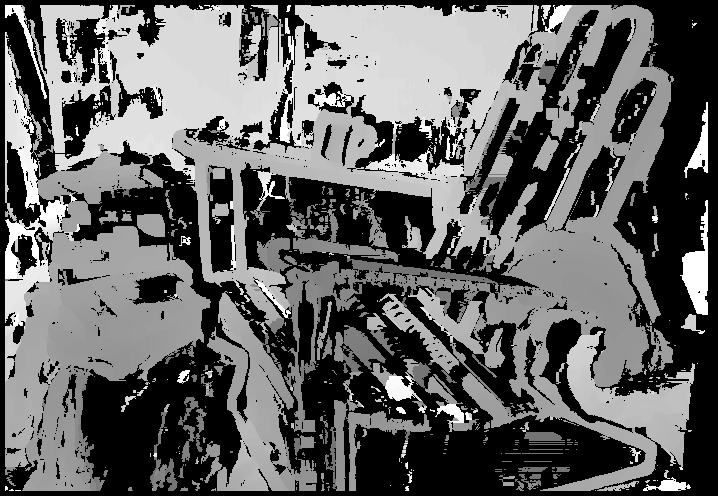
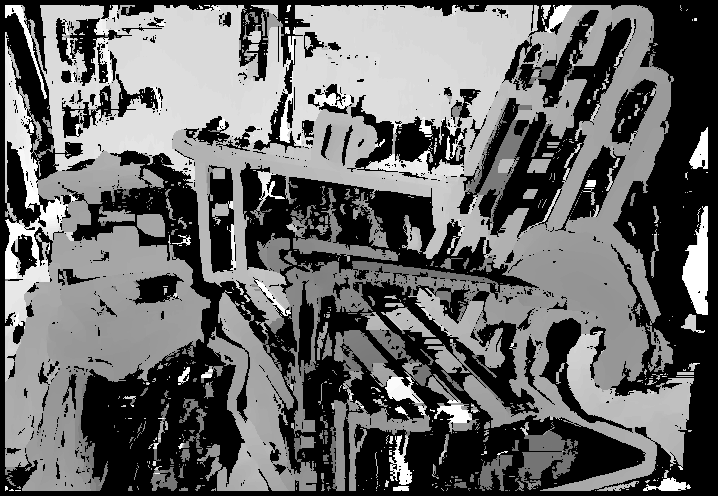
fixed symmetric constraint

diff --git a/Dev3/main.cpp b/Dev3/main.cpp
@@ -96,6 +96,15 @@ cv::Mat getDisparityMap(const cv::Mat &left, const cv::Mat &right)
                         err += diff * diff;
                     }
                 }
+                
+                if (previousDisparity != -1)
+                {
+                    int discontinuity = abs(d - previousDisparity);
+                    if (discontinuity > CONTINUOUS_DISPARITY_TOLERANCE)
+                    {
+                        err += discontinuity * 100;
+                    }
+                }
 
                 if (err < leftMinErr)
                 {
@@ -176,7 +185,7 @@ cv::Mat getDepthMap(const cv::Mat &disparity, float zPrime, float dOx, float Tx)
     cv::viz::Viz3d window("Depth Visualization");
     cv::viz::WCloud cloud(cloudMat, cv::viz::Color::green());
     window.showWidget("cloud", cloud);
-    // window.spin();
+    window.spin();
     /*
     *
     * 
